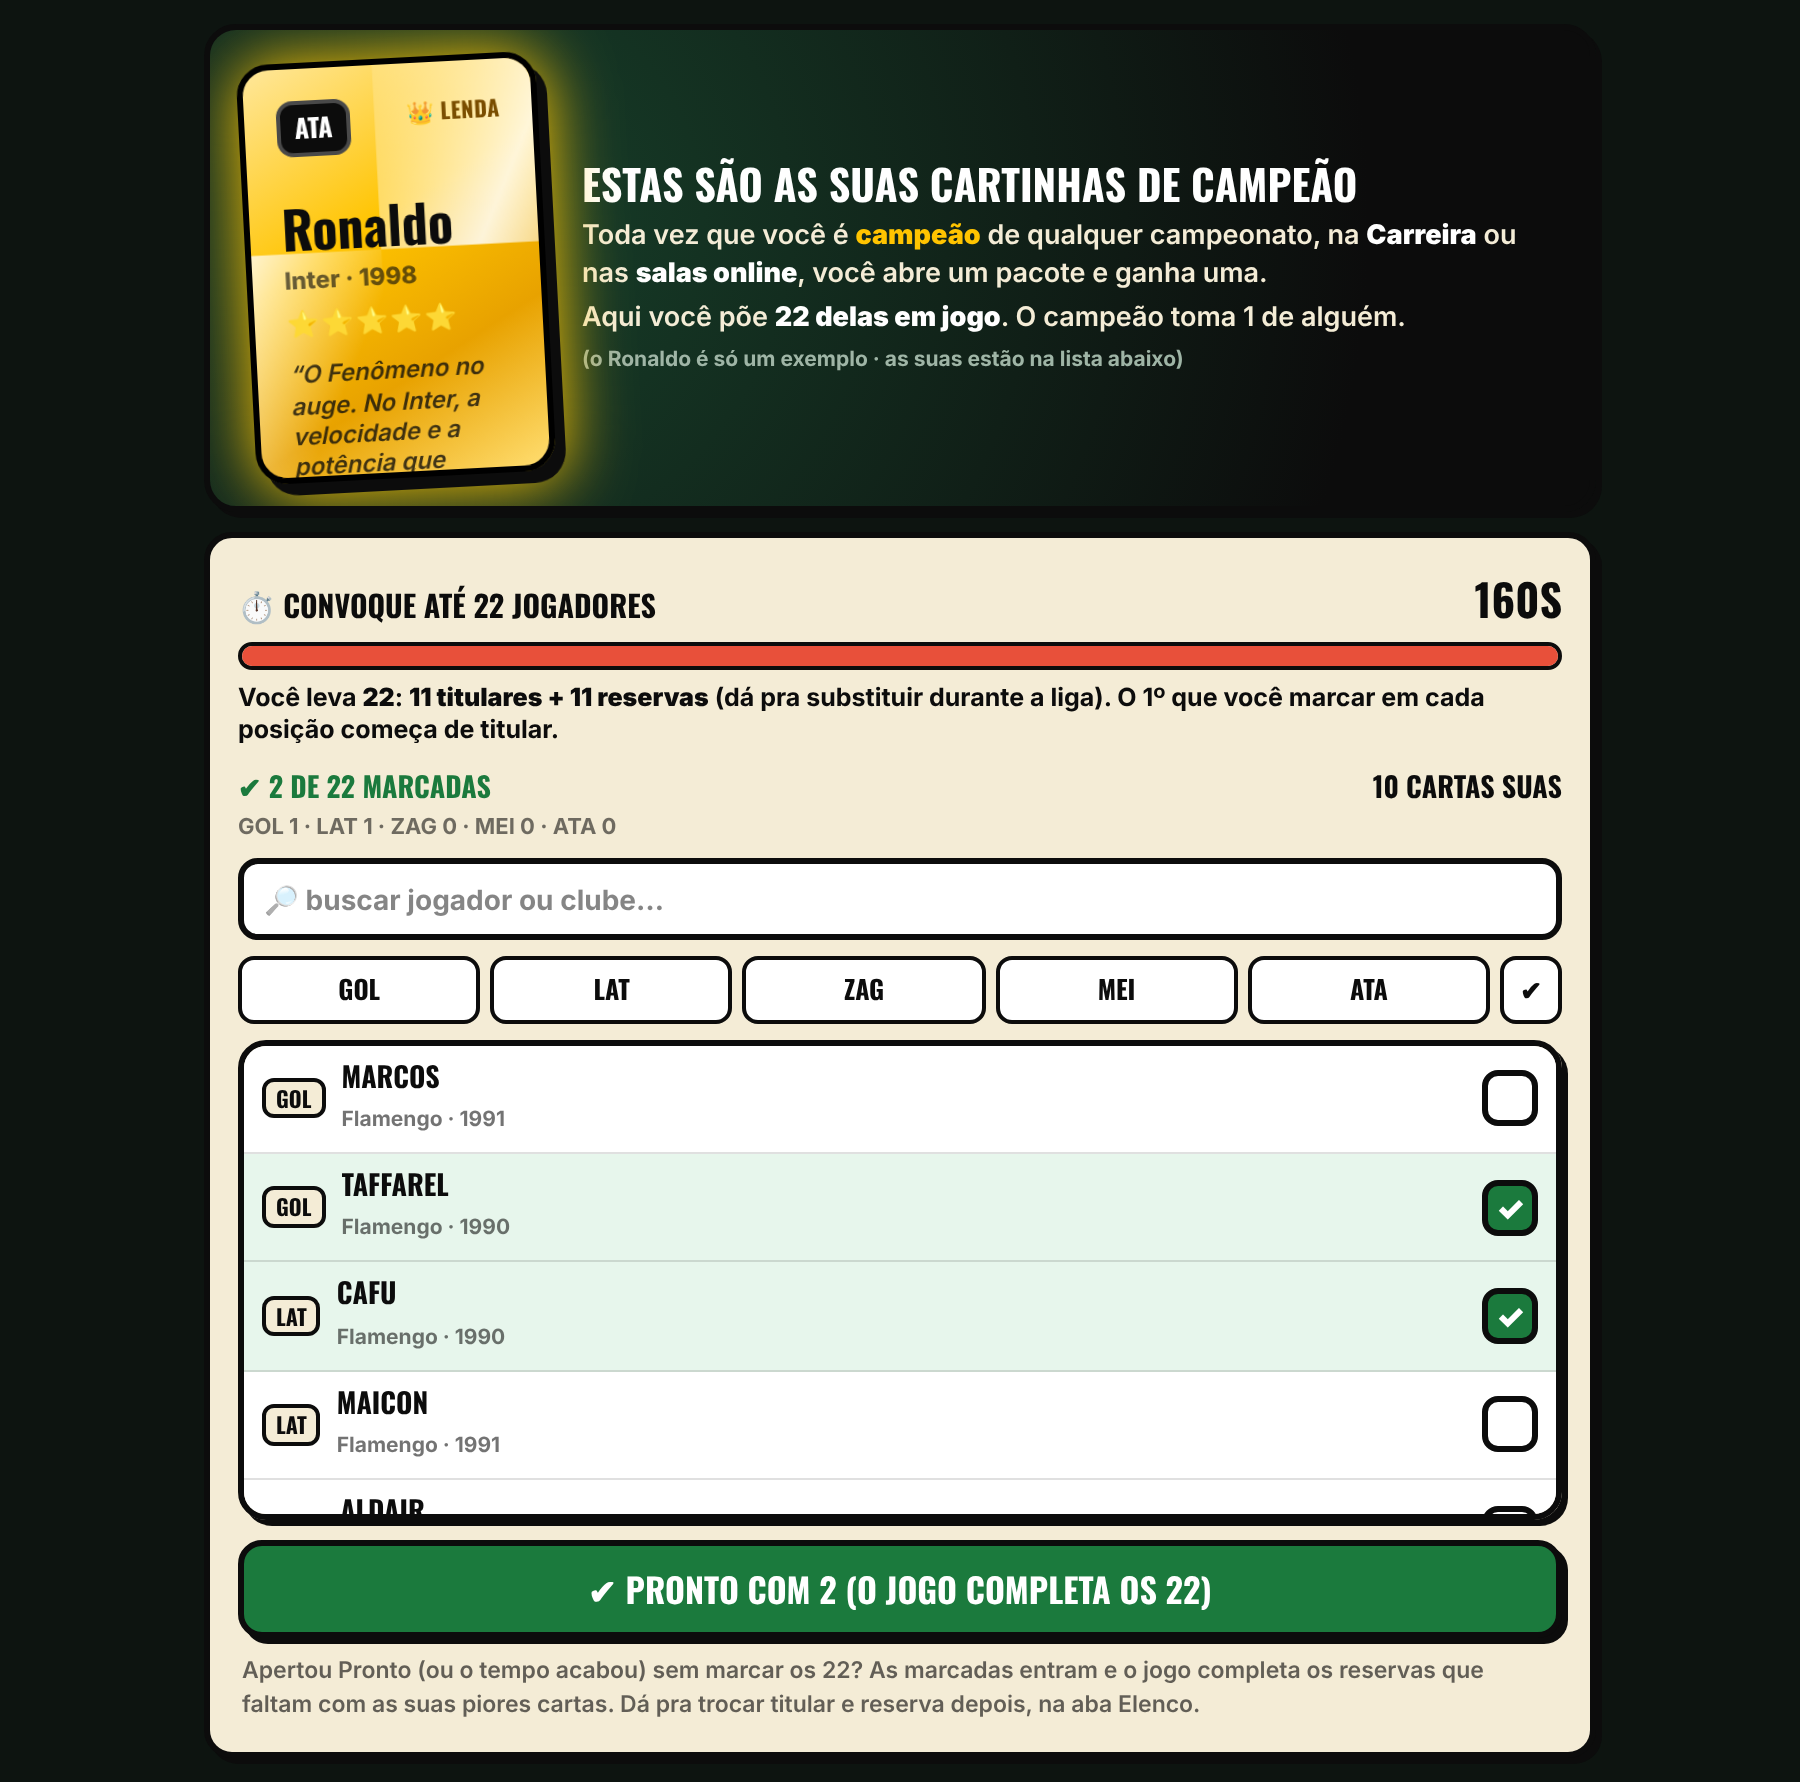
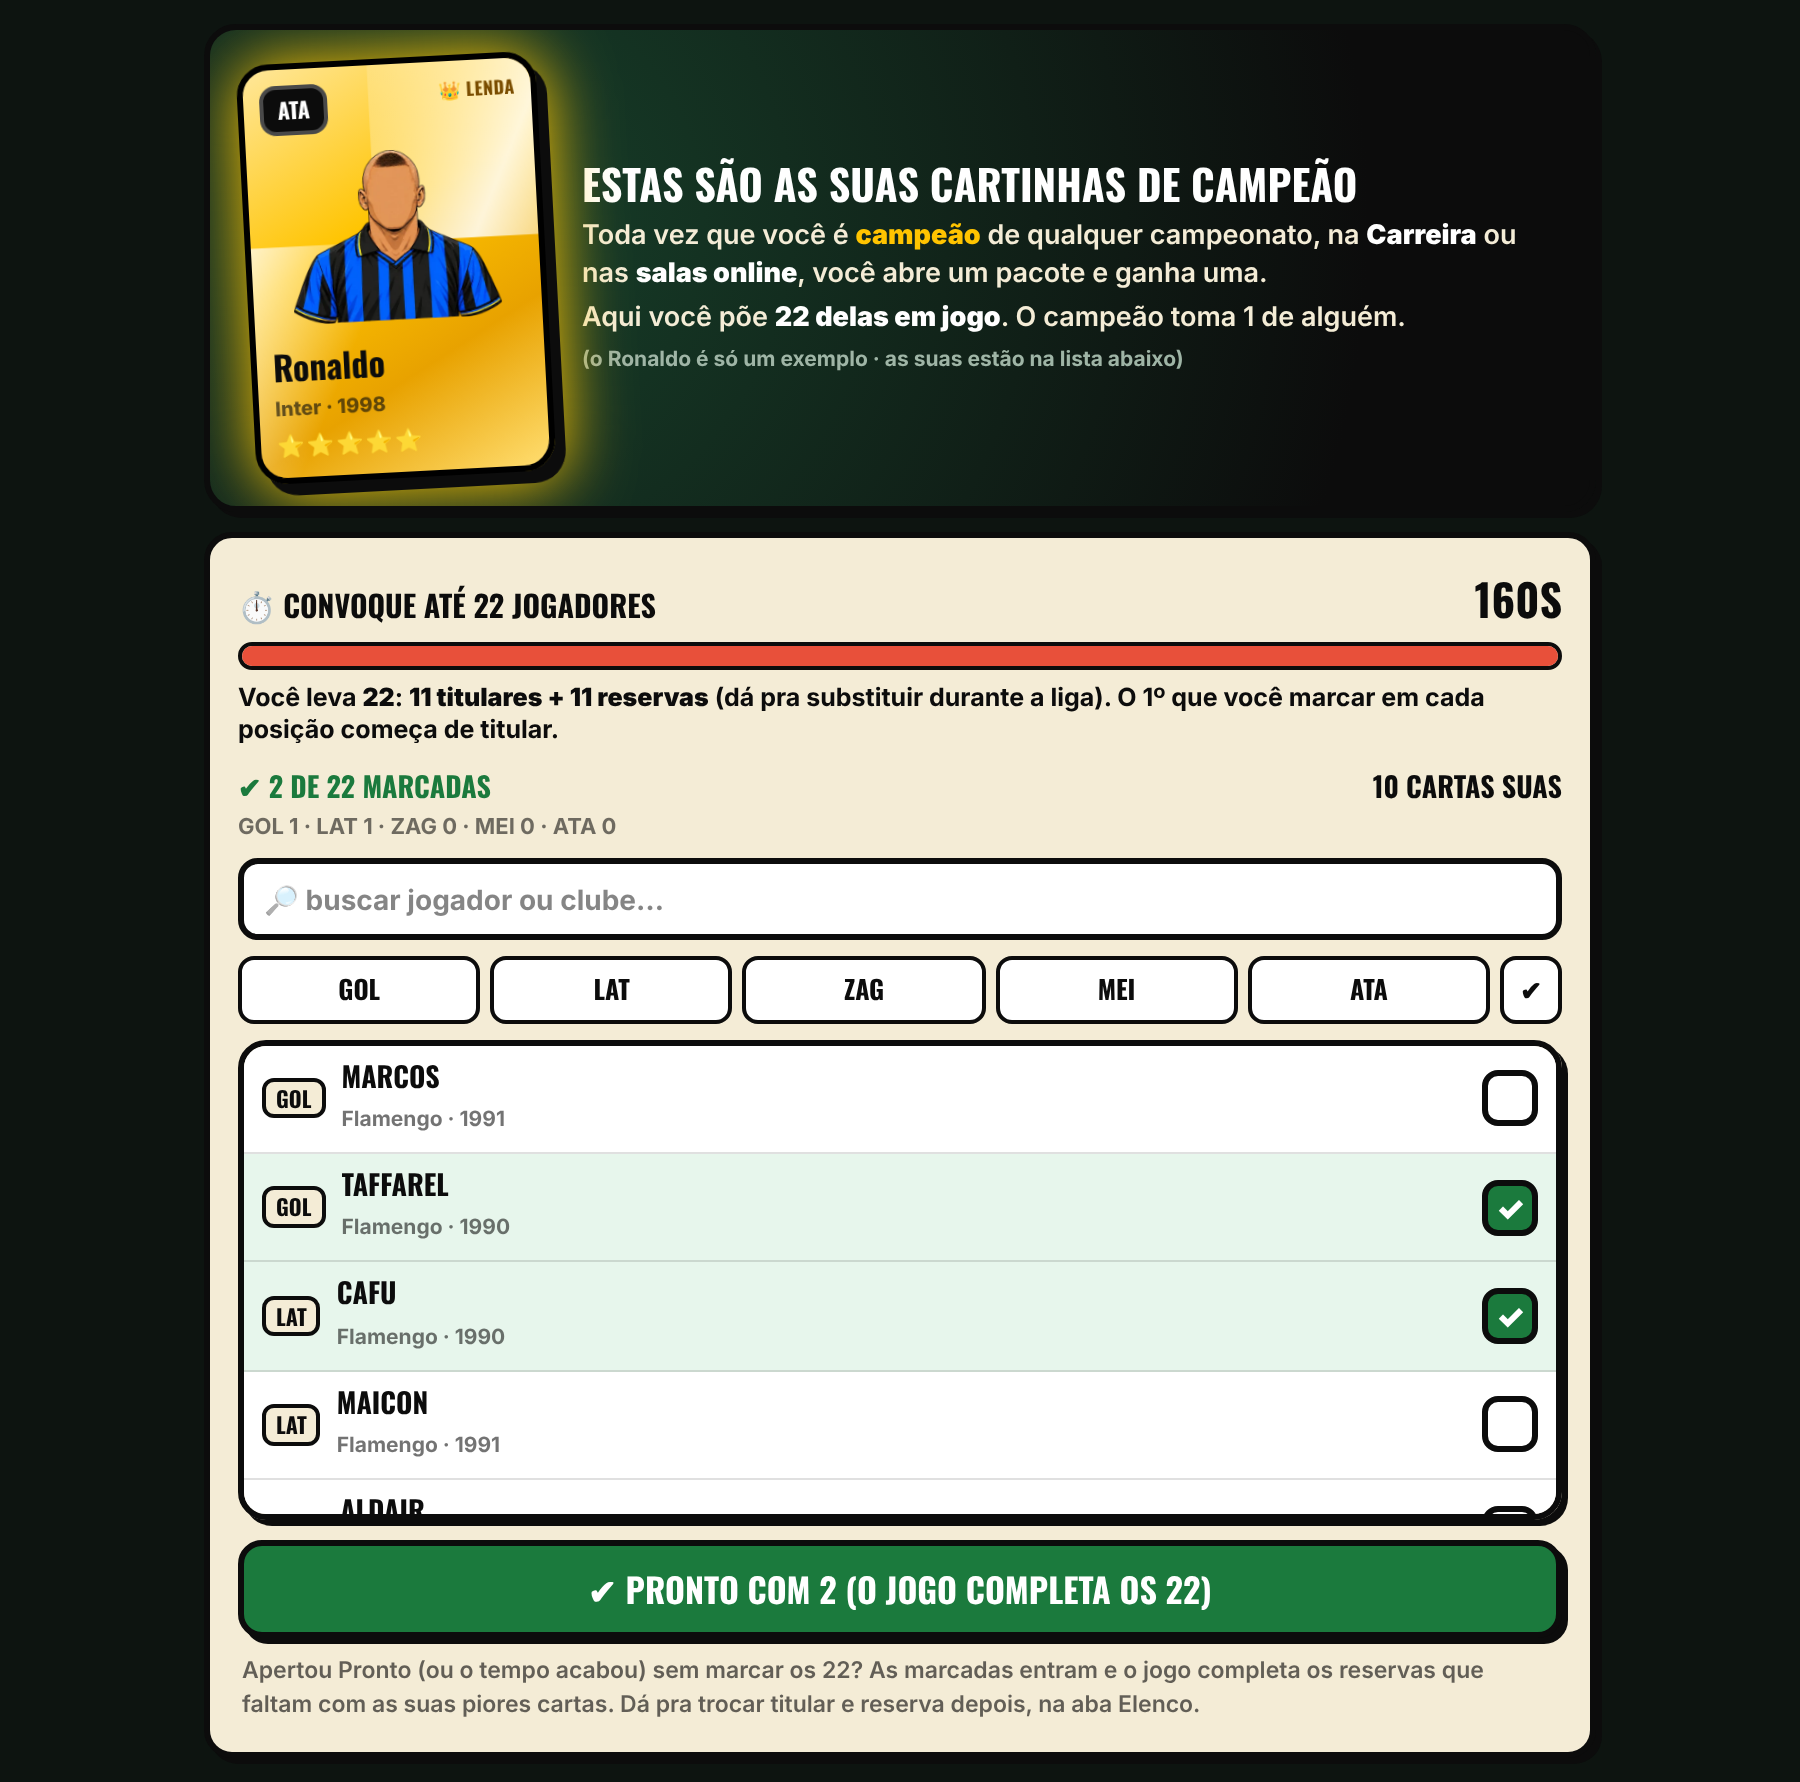
Bafo: a carta de exemplo usa o encaixe da revelação do jogo (o boneco do Ronaldo aparece inteiro, não só a cabeça)
Claude-Session: https://claude.ai/code/session_012GPrTDbpvrApA6DArkzCpE

Changed region(s): [[0.1244, 0.0309, 0.28, 0.2778], [0.2489, 0.0309, 0.28, 0.0617]]

diff --git a/src/escalacao/bafo2-ui.tsx b/src/escalacao/bafo2-ui.tsx
@@ -193,8 +193,10 @@ export function ExemploBafo() {
   return (
     <div style={{ border: `3px solid ${INK}`, borderRadius: 16, background: 'radial-gradient(circle at 18% 40%,#17402a,#0c0c0c 78%)', boxShadow: `3px 3px 0 ${INK}`, padding: largo ? '14px 18px' : '10px 12px', display: 'flex', alignItems: 'center', gap: largo ? 18 : 12, marginBottom: 10, overflow: 'hidden' }}>
       <style>{'@keyframes bf-sai{0%{transform:translateY(30px) scale(.6) rotate(-8deg);opacity:0}100%{transform:translateY(0) scale(1) rotate(-3deg);opacity:1}}'}</style>
-      <div style={{ flex: 'none', width: largo ? 150 : 112, animation: 'bf-sai .5s ease-out both', filter: `drop-shadow(0 0 16px ${OURO})` }}>
-        <CollectibleCard name="Ronaldo Fenômeno" nomeNaCarta="Ronaldo" club="Inter" year={1998} pos="ATA" fame={5} big={largo} />
+      {/* ⚠ o encaixe é o MESMO da revelação do leilão (`ll-lote1-reveal-card`, carta pequena): numa caixa qualquer a carta espreme
+          o boneco e sobra só a cabeça (o Diego pegou no 1º print: "não tá aparecendo o corpo dele padrão") */}
+      <div className="ll-lote1-reveal-card" style={{ flex: 'none', width: largo ? 150 : 124, margin: 0, animation: 'bf-sai .5s ease-out both', filter: `drop-shadow(0 0 16px ${OURO})` }}>
+        <CollectibleCard name="Ronaldo Fenômeno" nomeNaCarta="Ronaldo" club="Inter" year={1998} pos="ATA" fame={5} />
       </div>
       <div style={{ color: CREME, minWidth: 0 }}>
         <p style={{ ...OSW, fontWeight: 900, fontSize: largo ? 21 : 16, color: '#fff', margin: 0, lineHeight: 1.1 }}>{tr('Estas são as suas cartinhas de campeão', 'These are your champion cards')}</p>
